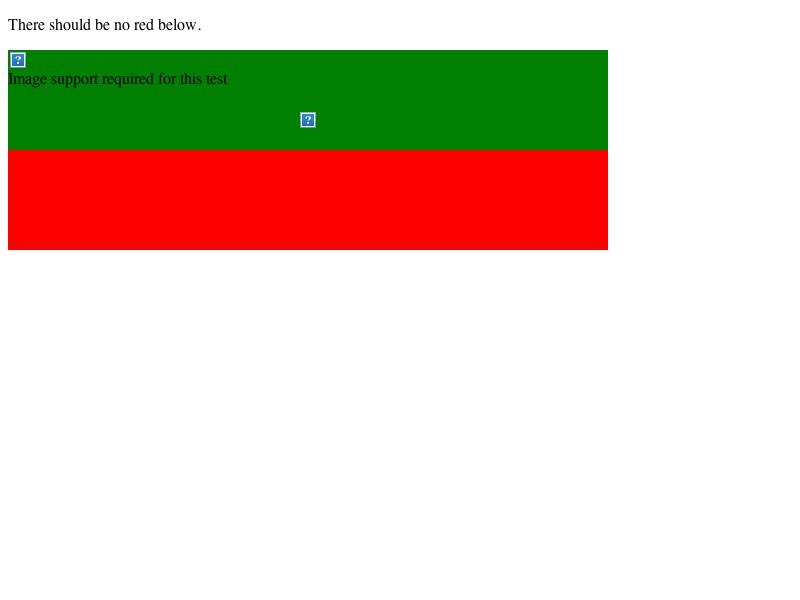
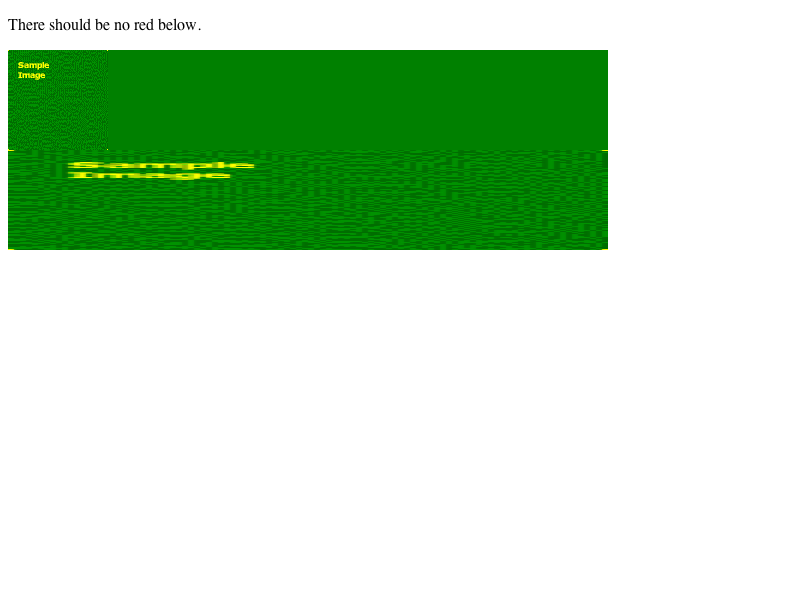
Reviewed by Darin.
- fixed some tests that were missing test images

        * fast/replaced/resources/sample.gif: Added.
        * fast/replaced/resources/1x1-green.png: Added.
        * fast/replaced/resources/1x1-red.png: Added.

        * fast/replaced/001.html: Changed images to point to actual images.
        * fast/replaced/002.html: Ditto.
        * fast/replaced/003.html: Ditto.
        * fast/replaced/004.html: Ditto.

        * fast/replaced/002-expected.txt: Updated.
        * fast/replaced/003-expected.txt: Updated.

        * fast/replaced/001-expected.png: Updated.
        * fast/replaced/001-expected.checksum: Updated.
        * fast/replaced/002-expected.png: Updated.
        * fast/replaced/002-expected.checksum: Updated.
        * fast/replaced/003-expected.png: Updated.
        * fast/replaced/003-expected.checksum: Updated.
        * fast/replaced/004-expected.png: Updated.
        * fast/replaced/004-expected.checksum: Updated.

git-svn-id: http://svn.webkit.org/repository/webkit/trunk@12465 268f45cc-cd09-0410-ab3c-d52691b4dbfc

Changed region(s): [[0.0, 0.24, 0.7812, 0.42], [0.0, 0.09, 0.2812, 0.15], [0.375, 0.18, 0.4062, 0.21]]

diff --git a/LayoutTests/fast/replaced/004.html b/LayoutTests/fast/replaced/004.html
@@ -17,12 +17,12 @@
   rectangles of different shades, seperated by 1em of margin.</p>
   <div class="a">
    <p>
-    <img src="/resources/images/1x1-green" alt="Image support required for this test">
+    <img src="resources/1x1-green.png" alt="Image support required for this test">
    </p>
   </div>
   <div class="b">
    <p>
-    <img src="/resources/images/1x1-red" alt="Image support required for this test">
+    <img src="resources/1x1-red.png" alt="Image support required for this test">
     <span></span>
    </p>
   </div>

diff --git a/LayoutTests/fast/replaced/002.html b/LayoutTests/fast/replaced/002.html
@@ -14,8 +14,8 @@
   <p>There should be no red below.</p>
   <div>
    <p>
-    <img src="/resources/images/sample" alt="" class="float">
-    <img src="/resources/images/sample" alt="Image support required for this test" class="flow">
+    <img src="resources/sample.gif" alt="" class="float">
+    <img src="resources/sample.gif" alt="Image support required for this test" class="flow">
    </p>
   </div>
  </body>

diff --git a/LayoutTests/fast/replaced/003.html b/LayoutTests/fast/replaced/003.html
@@ -14,8 +14,8 @@
   <p>There should be no red below.</p>
   <div>
    <p>
-    <img src="/resources/images/sample" alt="" class="float">
-    <img src="/resources/images/sample" alt="Image support required for this test" class="flow">
+    <img src="resources/sample.gif" alt="" class="float">
+    <img src="resources/sample.gif" alt="Image support required for this test" class="flow">
    </p>
   </div>
  </body>

diff --git a/LayoutTests/fast/replaced/001.html b/LayoutTests/fast/replaced/001.html
@@ -10,7 +10,7 @@
  <body>
   <p>There should be no red below.</p>
   <div>
-   <p><img src="/resources/images/sample" alt="Image support required for this test"></p>
+   <p><img src="resources/sample.gif" alt="Image support required for this test"></p>
   </div>
  </body>
 </html>
